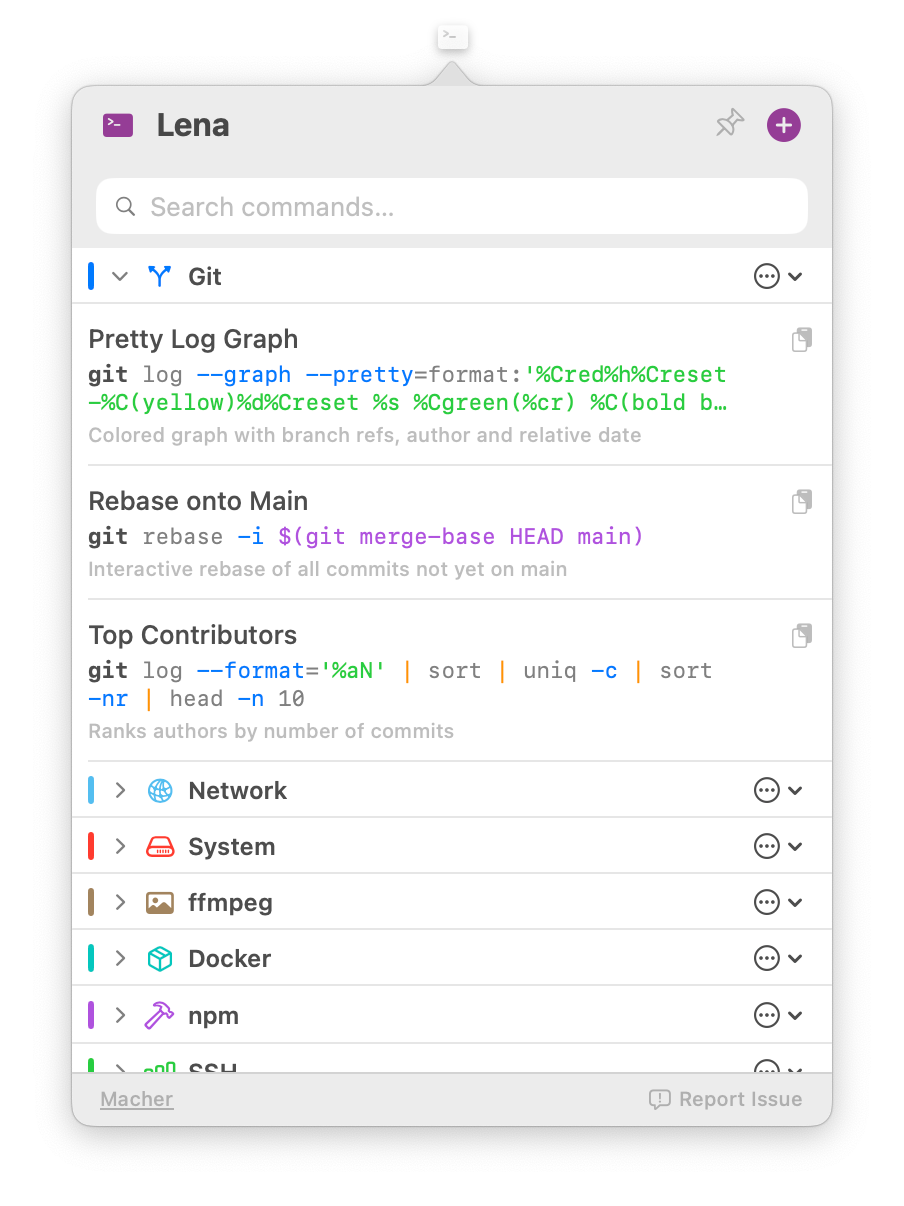
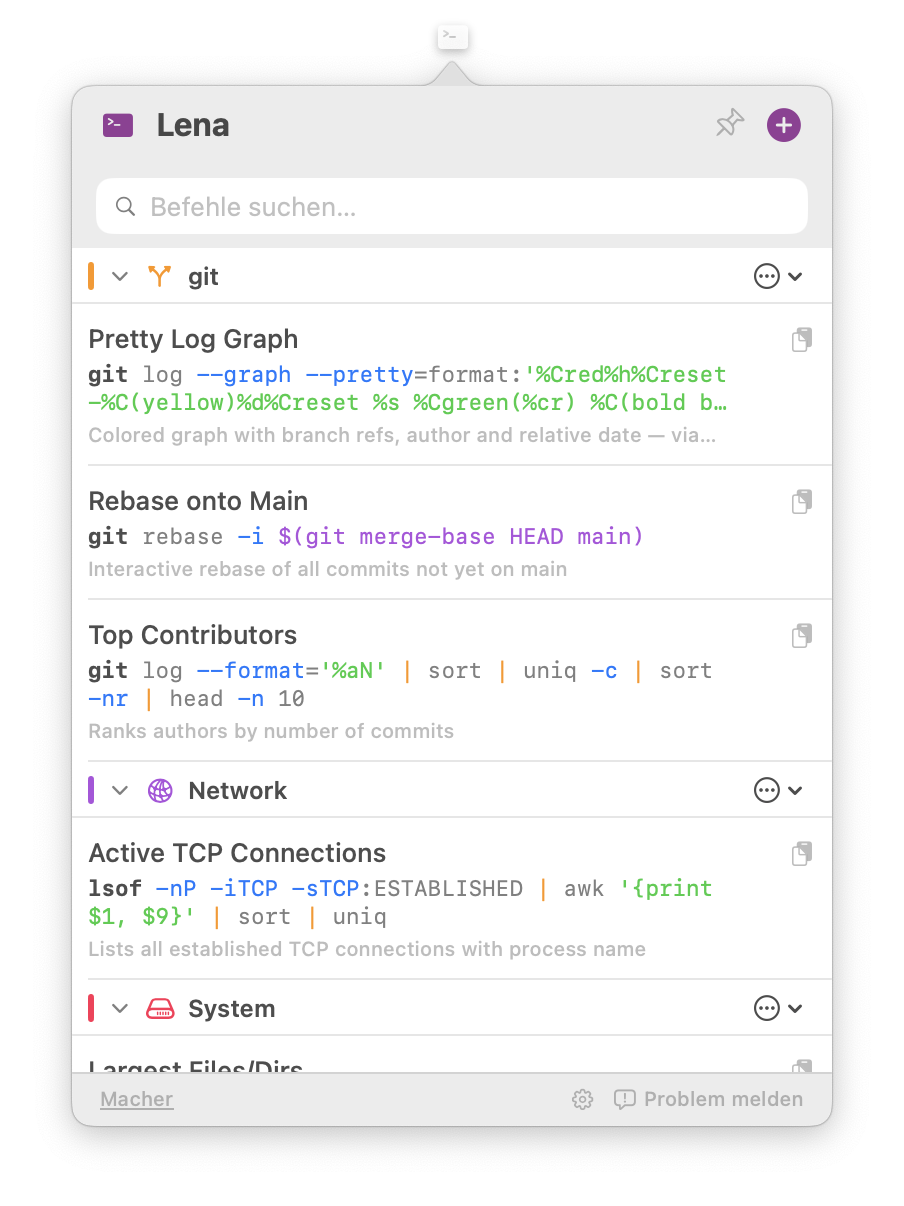
README.md

diff --git a/README.md b/README.md
@@ -13,27 +13,28 @@
 **Features**
 
 - Menu bar icon — always one click away
-- Global hotkey `⌘⇧L` to open from anywhere
+- Configurable global hotkey (default `⌘⇧L`) to open from anywhere
 - Group commands by tool (git, Docker, ffmpeg, …)
 - Full-text search across all commands and notes
 - Syntax highlighting in the command editor
-- Templates with `{{placeholder}}` variables
-- Keyboard navigation `↑` `↓` `↵` to copy
-- Data stored locally in `~/Library/Containers/xyz.yannick.lena/Data/Library/Application Support/Lena/tools.json`
+- Templates with `{{placeholder}}` variables — use `{{name?}}` for optional placeholders that can be left blank
+- Keyboard navigation `↑` `↓` `↵` to copy, `⌘N` new tool, `⌘⇧N` new command, `⌘E` edit, `⌘⌫` delete
+- Data stored locally in Application Support (path shown in Settings → Storage)
+- Available in English, German, and Dutch
 
 ---
 
 <p align="center">
-  <img src="screenshots/lena-1.png" width="48%" alt="Lena Screenshot 1">
+  <img src="screenshots/lena-2.png" width="48%" alt="Lena Screenshot 2" valign="top">
   &nbsp;
-  <img src="screenshots/lena-2.png" width="48%" alt="Lena Screenshot 2">
+  <img src="screenshots/lena-1.png" width="48%" alt="Lena Screenshot 1" valign="top">
 </p>
 
 ---
 
 **Install**
 
-Download `Lena-1.0.dmg` from [Releases](https://github.com/yannickboog/lena/releases), open it, and drag **Lena** into your Applications folder.
+Download `Lena-1.1.dmg` from [Releases](https://github.com/yannickboog/lena/releases), open it, and drag **Lena** into your Applications folder.
 
 > Since the app is not notarized, right-click and select **Open** on first launch, or allow it via System Settings → Privacy & Security.
 > Alternatively: `xattr -dr com.apple.quarantine /Applications/Lena.app`
